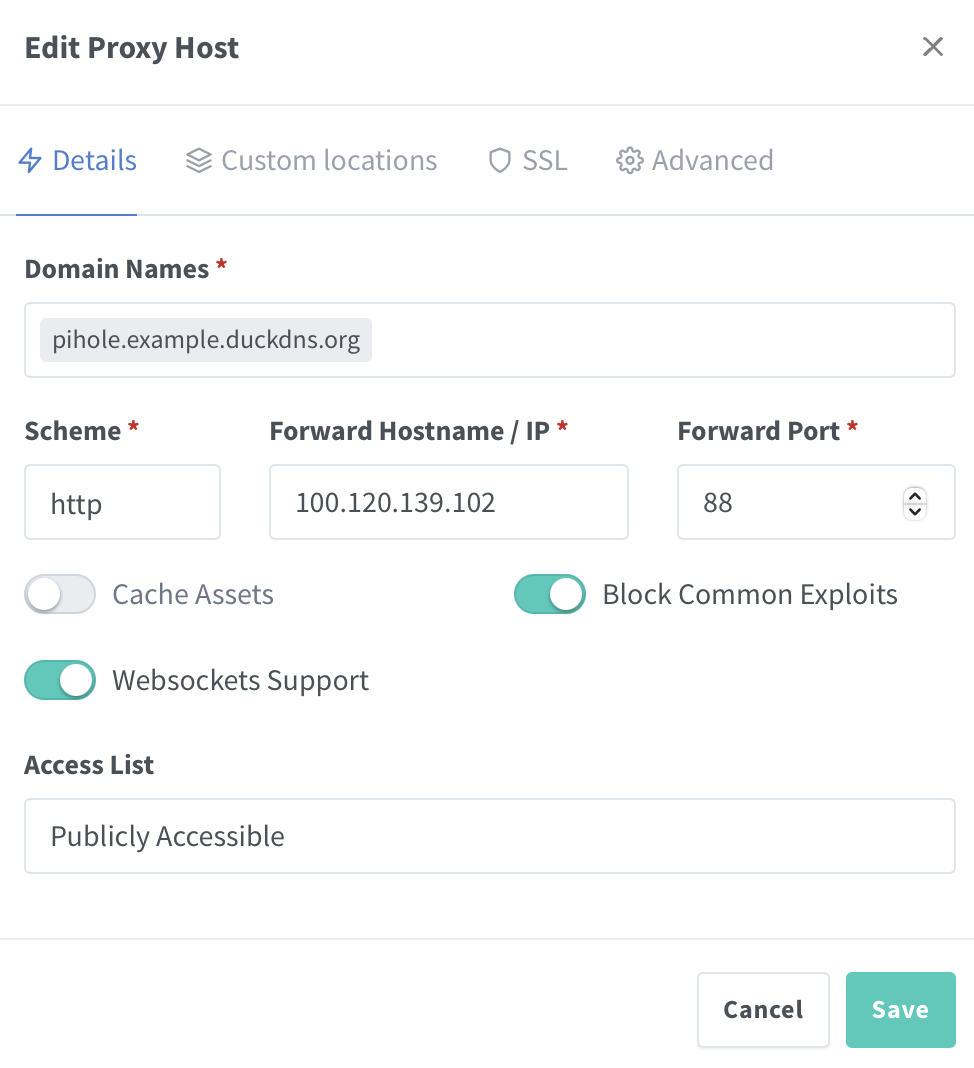
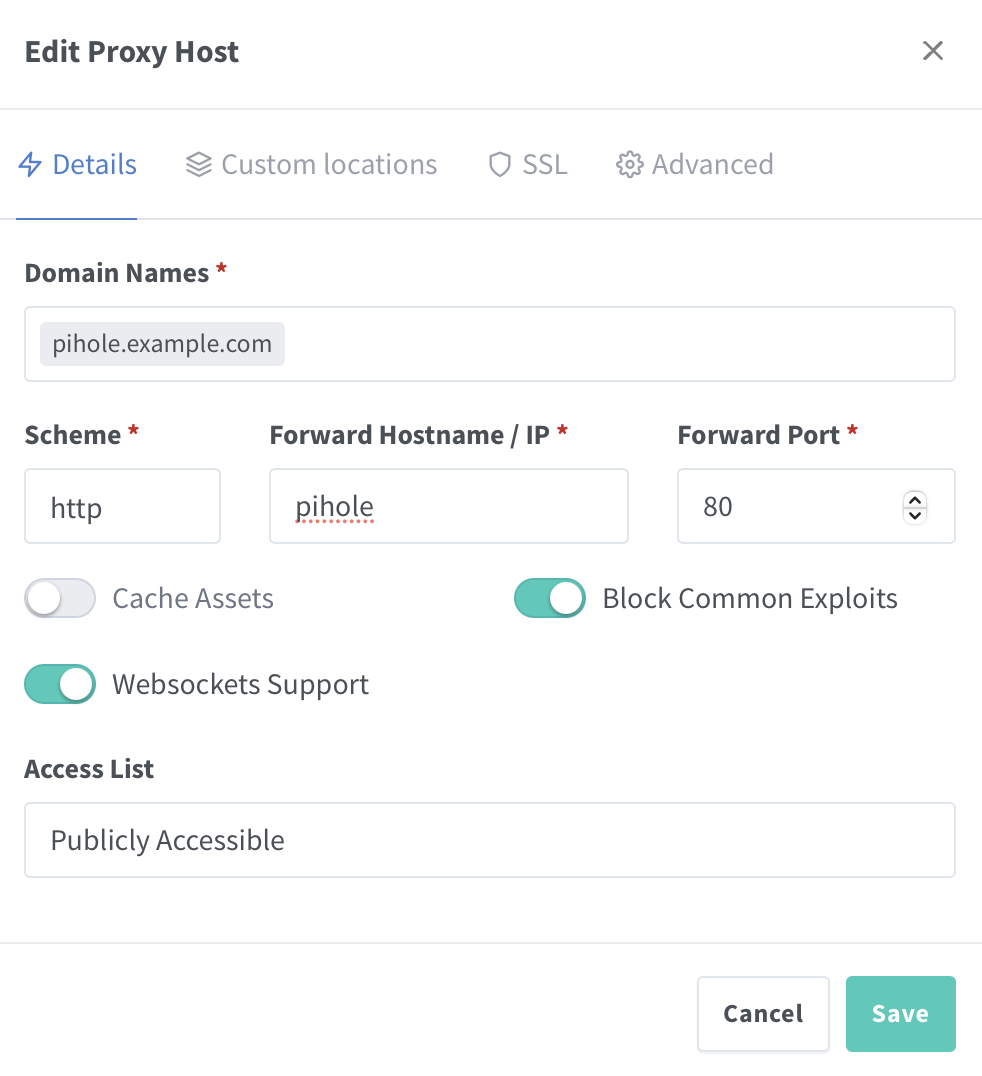
Customer Docker Network

diff --git a/README.md b/README.md
@@ -1,10 +1,10 @@
 # 📦 Pi-hole Docker Compose Stack
 
 [![MIT License](https://img.shields.io/github/license/Vantasin/Pihole?style=flat-square)](LICENSE)
-[![Woodpecker CI](https://img.shields.io/badge/Woodpecker%20CI-self--hosted-green?logo=drone&style=flat-square)](https://woodpecker-ci.org/)
-[![Docker Pulls: pihole/pihole](https://img.shields.io/docker/pulls/pihole/pihole?style=flat-square&logo=docker)](https://hub.docker.com/r/pihole/pihole)
-[![envsubst](https://img.shields.io/badge/envsubst-variable%20substitution-lightgrey?style=flat-square)](https://man7.org/linux/man-pages/man1/envsubst.1.html)
+[![Docker Compose](https://img.shields.io/badge/Docker-Compose-blue?logo=docker)](https://www.docker.com/)
 [![ZFS](https://img.shields.io/badge/ZFS-OpenZFS-blue?style=flat-square)](https://openzfs.org/)
+
+[![Pi-hole](https://img.shields.io/badge/Pi--hole-Active-black?logo=pihole&logoColor=white)](https://pi-hole.net/)
 
 This repository contains a minimal and production-ready [Pi-hole](https://pi-hole.net/) stack using Docker Compose. Pi-hole is a network-wide ad blocker that acts as a DNS sinkhole and optionally a DHCP server.
 
@@ -20,8 +20,6 @@ tank/
 │   │       ├── docker-compose.yml  # Main Docker Compose config
 │   │       ├── .env                # Runtime environment variables and secrets (gitignored!)
 │   │       ├── env.example         # Example .env file for reference
-│   │       ├── env.template        # Optional template
-│   │       ├── .woodpecker.yml     # CI/CD pipeline definition for auto-deploy
 │   │       └── README.md           # This file
 │   └── data/
 │       └── Pihole/              # Volume mounts and persistent data
@@ -80,7 +78,13 @@ tank/
    sudo chmod 600 .env
    ```
 
-   > Alternatively generate the `.env` file using the `env.template` template with Woodpecker CI's `.woodpecker.yml`.
+    > **Tip:** You must use [Nginx Proxy Manager](https://github.com/Vantasin/Nginx-Proxy-Manager.git) as a reverse proxy to access `Pihole`.
+    >
+    > **Proxy Host:**
+    >  - **Domain Name:** `https://pihole.example.com`
+    >  - **Scheme:** `http`
+    >  - **Forward Hostname/IP:** `pihole`
+    >  - **Forward Port:** `80`
 
 4. **Start Pihole**
 
@@ -94,10 +98,10 @@ tank/
 
 Once deployed, access Pi-hole using:
 
-- **Web Interface (HTTP):** `http://localhost:88/admin` or replace `localhost` with your server’s IP address.  
+- **Web Interface (HTTP):** `https://pihole.example.com`.  
 - **Admin Password:** Must be set via `WEBPASSWORD` in `.env` or a random password will be generated.
 
-> **Note:** Consider using [Nginx Proxy Manager](https://github.com/Vantasin/Nginx-Proxy-Manager.git) as a reverse proxy for HTTPS certificates via Let's Encrypt.
+> **Note:** You must use [Nginx Proxy Manager](https://github.com/Vantasin/Nginx-Proxy-Manager.git) as a reverse proxy for HTTPS certificates via Let's Encrypt.
 
 <p align="center">
   <img
@@ -119,34 +123,9 @@ Once deployed, access Pi-hole using:
 
 ---
 
-## 🚀 Continuous Deployment with Woodpecker
-
-This project includes a `.woodpecker.yml` pipeline for automated deployment using [Woodpecker CI](https://woodpecker-ci.org/).
-
-When changes are pushed to the Git repository:
-1. The pipeline is triggered by the Woodpecker server.
-2. Secrets are securely injected from the Woodpecker UI.
-3. The `.env` file is rendered from `env.template` using `envsubst`.
-4. The Docker Compose stack is restarted to apply updates.
-
-### 🔐 Secret Injection
-
-Secrets must be added in the Woodpecker **Web UI > Repositories > Pihole > Secrets** section with the following names:
-
-| Secret Name                | Description                       |
-|----------------------------|-----------------------------------|
-| `WEBPASSWORD`              | FTLconf Web-server API password   |
-
-They are injected automatically into the pipeline environment as secure variables.
-
----
-
 ## 🙏 Acknowledgments
 
-- [ChatGPT](https://openai.com/chatgpt) for assistance in generating setup scripts and templates.
-- [pi-hole/docker-pi-hole](https://github.com/pi-hole/docker-pi-hole) the official Docker image and source code for Pi-hole.
-- [Pi-hole documentation](https://docs.pi-hole.net/) the official user guide and admin reference for configuring and troubleshooting Pi-hole.
-- [Docker](https://www.docker.com/) for container orchestration and runtime.
-- [`envsubst`](https://man7.org/linux/man-pages/man1/envsubst.1.html) for lightweight environment variable substitution in template files.
-- [Woodpecker CI](https://woodpecker-ci.org/) for lightweight, self-hosted continuous integration.
-- [ZFS](https://openzfs.org/) for advanced local filesystem features, dataset organization, and snapshotting.
+- [ChatGPT](https://openai.com/chatgpt) — for assistance in generating setup scripts and templates.
+- [Docker](https://www.docker.com/) — for container orchestration and runtime.
+- [OpenZFS](https://openzfs.org/) — for advanced local filesystem features, dataset organization, and snapshotting.
+- [Pi-hole](https://pi-hole.net/) — A network-wide ad blocker and DNS sinkhole for privacy and performance.
